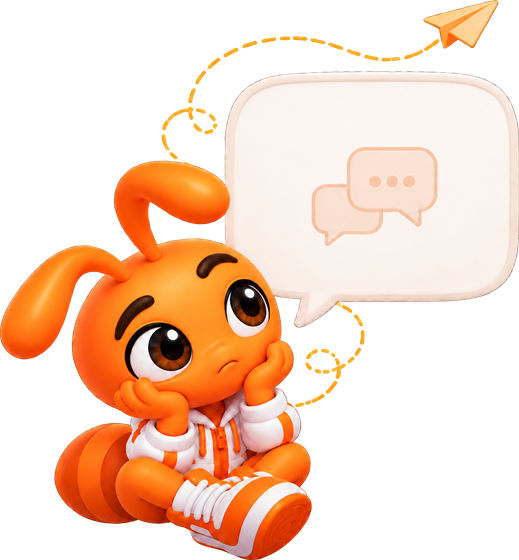
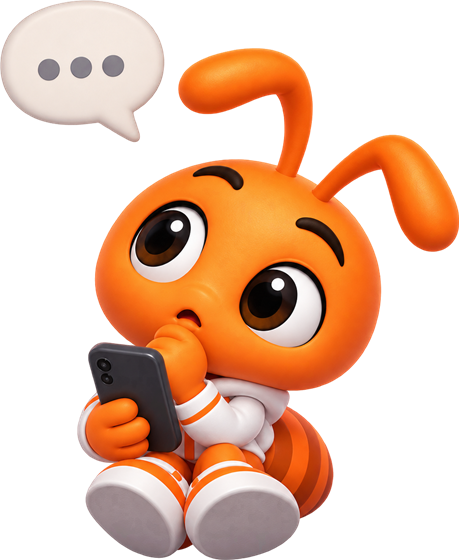
feat(client): đổi con kiến ở khung Messenger trống (cầm điện thoại, tách hạt rời); chữ nhãn sao khi đánh giá bớt đậm

diff --git a/client/src/app/features/orders/order-detail/order-detail.css b/client/src/app/features/orders/order-detail/order-detail.css
@@ -251,7 +251,7 @@ a.pbtn.link { text-decoration: none; }
 .rvstars { margin-top: 16px; text-align: center; }
 .rvstars .rate { justify-content: center; gap: 10px; }
 .rvstars .rate button { font-size: 38px; }
-.rlabel { display: block; margin-top: 4px; font-style: normal; font-size: 15px; font-weight: 600; color: #E2A33B; }
+.rlabel { display: block; margin-top: 4px; font-style: normal; font-size: 15px; font-weight: 500; color: #E2A33B; }
 .rvstars .err2 { text-align: center; }
 .rvtags { display: flex; flex-wrap: wrap; gap: 8px; margin-top: 16px; }
 .rvtags button { height: 34px; padding: 0 14px; border: 1px solid #DADDE3; border-radius: 999px; background: #fff; font: inherit; font-size: 13.5px; color: var(--ink); }

diff --git a/client/src/app/features/messenger/messenger/messenger.css b/client/src/app/features/messenger/messenger/messenger.css
@@ -232,3 +232,4 @@
 .tabs button { background: #F0F2F5; color: var(--ink); }
 .tabs button:hover { background: #E6E9EE; }
 .tabs button.on { background: var(--ink); color: #fff; }
+.thread.blank img { left: 0; width: 240px; }
